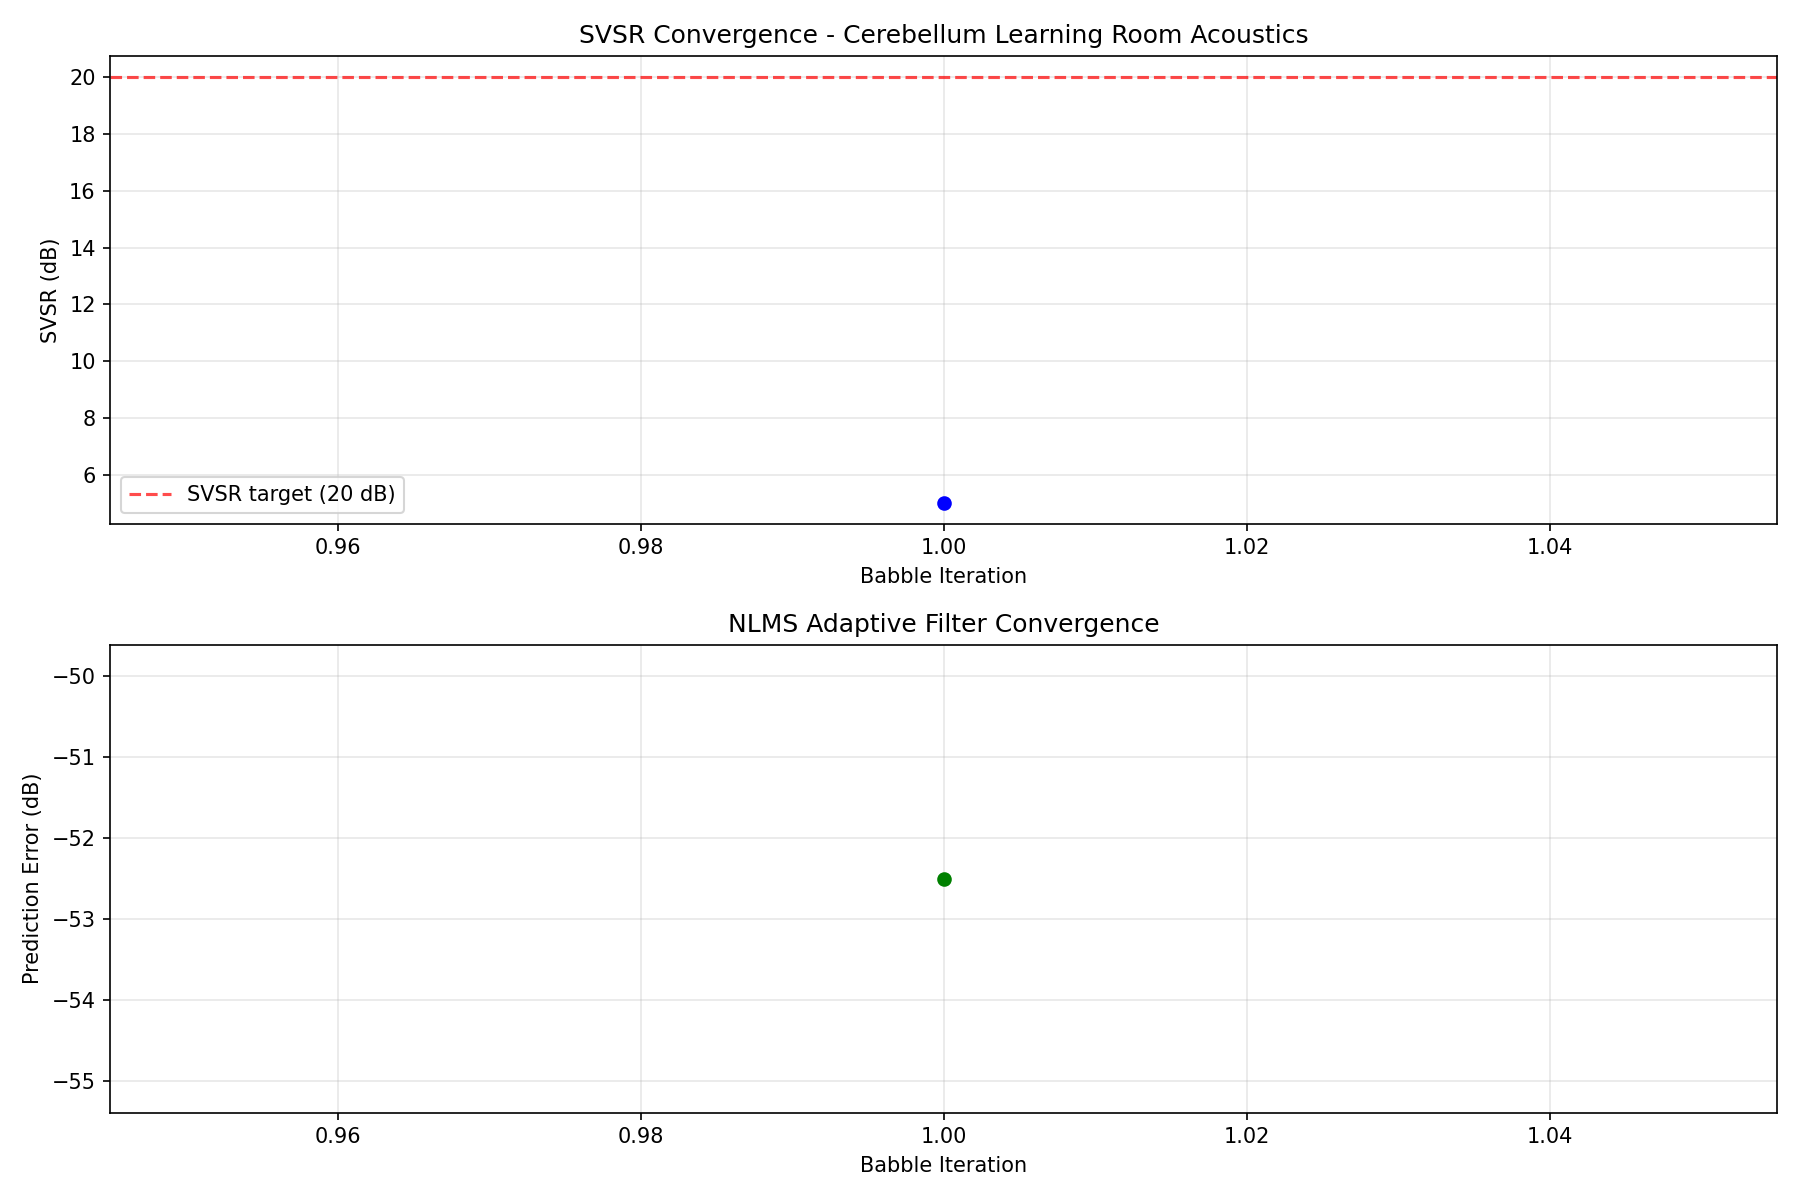
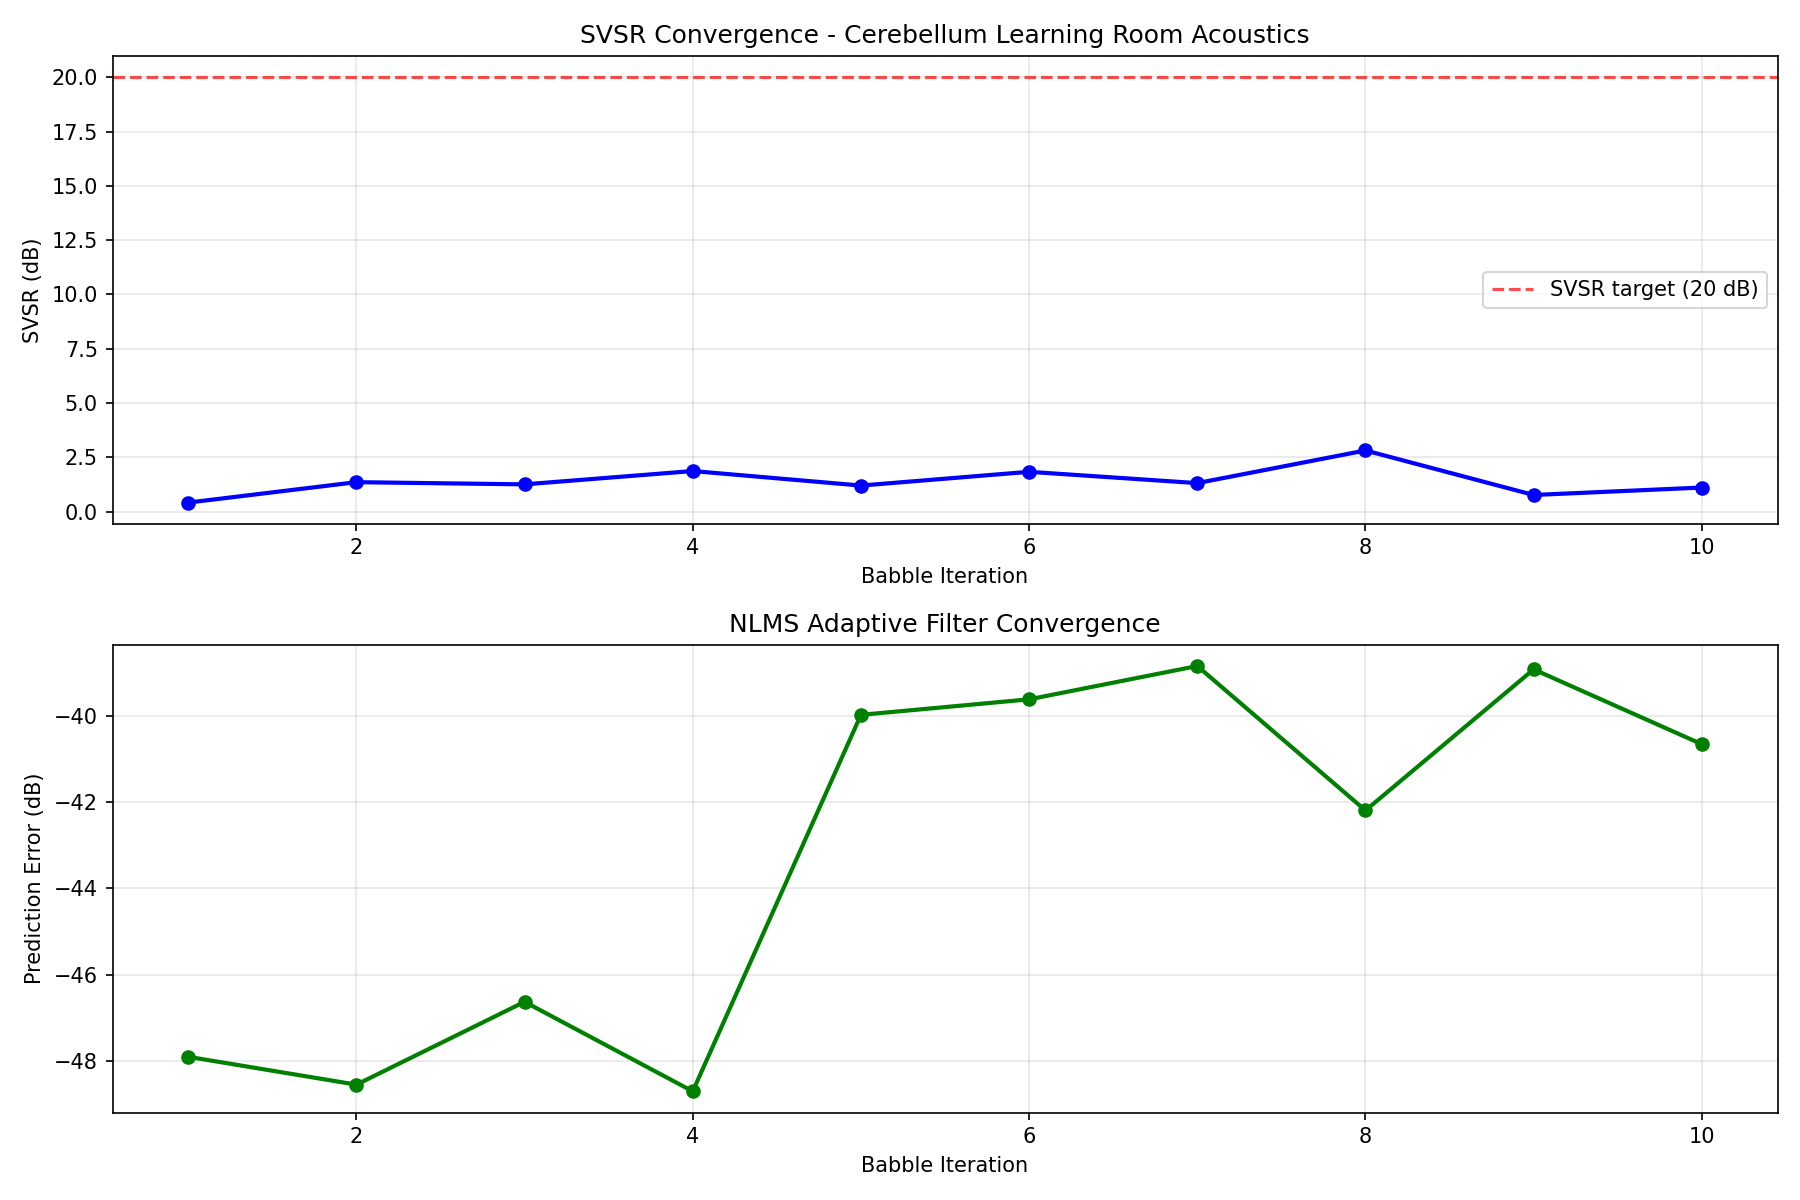
feat: add new vowel screening profiles to enhance controlled-noise evaluation, incorporating detailed adaptation histories and performance metrics for improved experimental protocols

diff --git a/docs/m1_experiment_matrix.md b/docs/m1_experiment_matrix.md
@@ -435,11 +435,14 @@ Answer: **If I make this sound here, what should I expect to hear back?**
 - A new developmental hypothesis now emerges from the contamination results: repeated babble trains may be a more natural and more robust self-attribution strategy than isolated single tokens in noisy environments. The motivation is temporal redundancy, stronger self-consistency, and better averaging against irregular world audio.
 - Immediate next experiment for that hypothesis: compare single-token `babble_ba_var` probes against short repeated `babababa`-style trains under a tightened `phone_music_moderate` protocol before making broader claims about babble-family robustness.
 - Additional debrief lesson: variable music should not be the default calibration stressor because it changes amplitude, spectral content, rhythmic density, and vocal/transient structure over time. For future stress calibration, use more controlled interference sources such as pink noise, speech-shaped noise, or fixed repeated phrase loops, and reserve music/TV/speech media for ecological-validity benches.
+- New screening protocol for controlled-noise devices: when a device offers many interference profiles, prefer a shallow all-profile screening pass over intuitive hand-picking. Run one fixed geometry, one baseline family, and skip-readapt by default across all profiles first, then let measured immediate drop and held-out-seed consistency choose the shortlist for deeper experiments.
+- For the first pass on a multi-profile noise machine, the right question is not which profile sounds weirdest to a human, but which profiles actually produce distinct and reproducible stress behavior for Corollary on the current mic, room, and geometry.
 
 **2026-04-19 debrief summary**
 - controlled-noise calibration benches and ecological-validity benches should be tracked separately
 - geometry, obstruction, and cardioid mic orientation are first-class experimental variables
 - catastrophic near-field contamination is often more informative for M1c-style mixed-source failure analysis than for ordinary M1b transfer ranking
+- when many controlled interference profiles are available, data should choose shortlist candidates before human interpretation does
 
 ## Stage 3, M1c Mixed-Source Attribution
 

diff --git a/README.md b/README.md
@@ -102,6 +102,7 @@ Current Mac mini + Fifine observation:
 - a new developmental hypothesis now follows from the contamination work: repeated self-generated babble trains, for example `ba ba ba ba ba`, may be more robust than isolated single tokens in chaotic environments because repetition provides temporal redundancy, stronger self-consistency cues, and better averaging against irregular world noise
 - the next useful test of that idea is not a broad family promotion claim but a focused comparison between single-token `babble_ba_var` probes and short repeated `babababa`-style trains under a tightened moderate interference protocol
 - another protocol lesson from the same stress work is that variable music was doing two jobs badly at once: it was acting as both interference source and benchmark condition. Future stress work should separate controlled-noise calibration benches from ecological-validity benches using music, TV, or natural speech
+- when a controlled-noise device offers many profiles, the first pass should be a shallow all-profile screening run rather than a human-picked subset: keep geometry fixed, use one baseline family, skip readaptation by default, and let measured immediate drop plus seed consistency select the shortlist for deeper follow-up
 
 | Phase | Description | Status |
 |-------|-------------|--------|
@@ -120,6 +121,7 @@ Current Mac mini + Fifine observation:
 - controlled-noise benches and ecological-validity benches should be treated as different experiment types
 - geometry, obstruction, and cardioid mic orientation are part of the protocol, not incidental setup details
 - contaminated world-audio conditions should default to evaluate-first and usually no-learn unless contaminated learning is the explicit thing being studied
+- when many interference profiles are available, let the screening data choose candidate profiles before human intuition names or groups them
 
 ### Developmental framing
 

diff --git a/docs/m1_source_attribution_plan.md b/docs/m1_source_attribution_plan.md
@@ -231,6 +231,7 @@ The first hardware-facing placement sweep on the Mac mini + Fifine path suggests
 - treat geometry, obstruction, and microphone polar pattern as explicit protocol fields
 - separate controlled-noise calibration from naturalistic media stress
 - under contaminated world-audio conditions, evaluate first and treat learning as an explicit test variable rather than a default continuation step
+- when a sound machine or similar device offers many interference profiles, start with a shallow all-profile screening pass and let measured immediate drop plus consistency choose the shortlist before relying on human profile descriptions
 
 ## M1b: Babbling-Driven Room Model Learning
 
